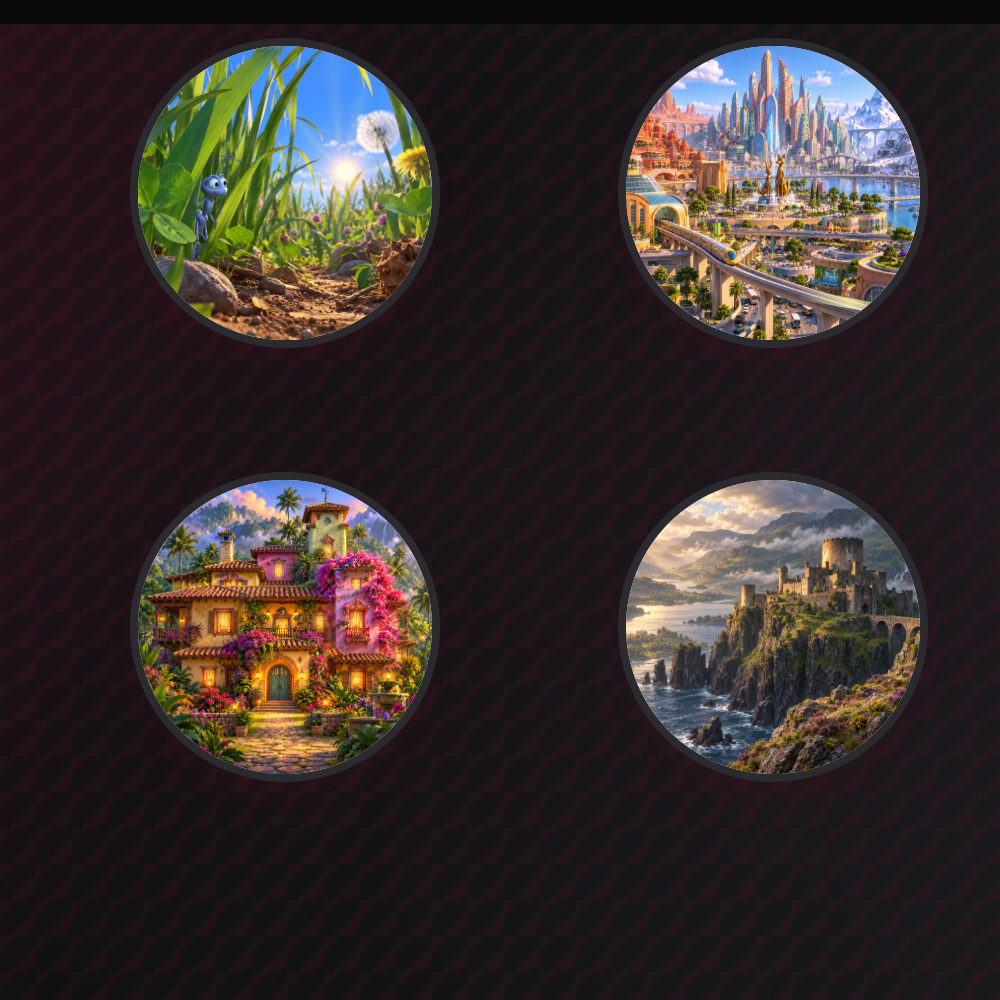
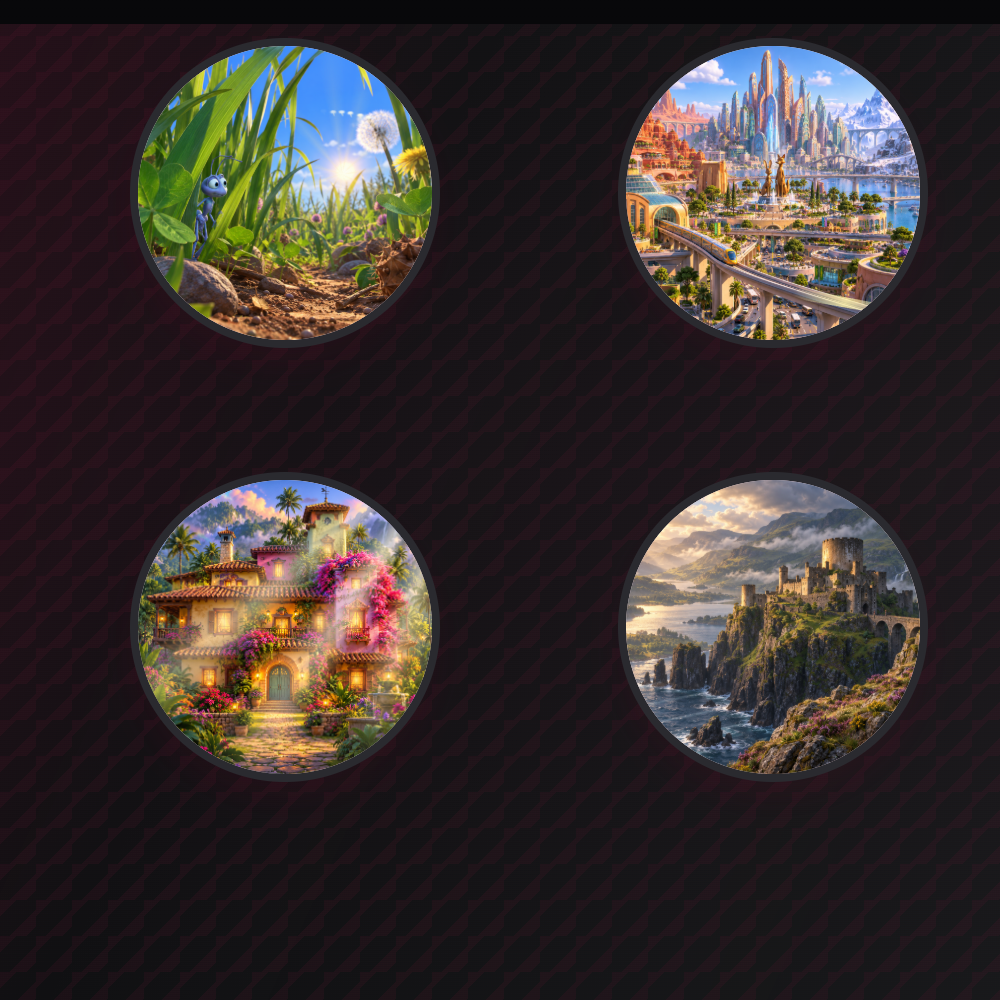
Replace Classic Buzz with Radio Shadow as Punk 90s till Now

Changed region(s): [[0.124, 0.496, 0.434, 0.744]]

diff --git a/scene-motion-tuning.css b/scene-motion-tuning.css
@@ -1,19 +1,19 @@
 /* Scene-specific motion overlays. Original scene images and frame sizing stay fixed. */
 /* Tiny seeds depart the distant dandelion once, fading before foreground grass. */
 .scene-disney-insect-meadow .launch-scene-particles { clip-path:polygon(58% 12%,84% 12%,84% 37%,58% 37%); }
-.scene-disney-insect-meadow .launch-scene-particles i { left:78%; top:28%; width:2px; height:2px; background:radial-gradient(ellipse at 50% 30%,#fffdebd9,transparent 72%); border-radius:50%; box-shadow:none; animation:meadow-background-seed 12s linear infinite; animation-delay:calc(var(--n) * -3s); }
-.scene-disney-insect-meadow .launch-scene-particles i::after { content:""; position:absolute; left:50%; top:1px; width:.5px; height:1.5px; background:#fff8d980; transform:rotate(-20deg); }
-.scene-disney-insect-meadow .launch-scene-particles i:nth-child(n+5) { display:none; }
-@keyframes meadow-background-seed { 0% { left:78%; top:calc(28% + var(--n) * 1%); opacity:0; } 15% { opacity:.45; } 75% { opacity:.3; } 100% { left:61%; top:calc(18% + var(--n) * 1.5%); opacity:0; } }
+.scene-disney-insect-meadow .launch-scene-particles i { left:78%; top:28%; width:6px; height:3px; background:radial-gradient(ellipse at 50% 35%,#fffef2 35%,#fffdebb3 60%,transparent 80%); border-radius:50%; box-shadow:0 0 1px #fff9; animation:meadow-background-seed 12s linear infinite; animation-delay:calc(var(--n) * -2s); }
+.scene-disney-insect-meadow .launch-scene-particles i::after { content:""; position:absolute; left:50%; top:2px; width:1px; height:3px; background:#fff8d9cc; transform:rotate(-20deg); }
+.scene-disney-insect-meadow .launch-scene-particles i:nth-child(n+7) { display:none; }
+@keyframes meadow-background-seed { 0% { left:78%; top:calc(27% + var(--n) * .8%); opacity:0; } 12% { opacity:.95; } 78% { opacity:.8; } 100% { left:61%; top:calc(17% + var(--n) * 1.3%); opacity:0; } }
 
 /* No floating fountain motes, butterflies or wisps in these scenes. */
 :is(.scene-disney-zootopia,.scene-disney-casita,.scene-disney-highland-castle) .launch-scene-particles { display:none; }
 
 /* Casita's warm light stays anchored to the painted window openings. */
 .scene-disney-casita .disney-light { background:radial-gradient(ellipse 3.5% 5% at 30% 48%,#fff0af,#ffca6399 40%,transparent),radial-gradient(ellipse 3% 3% at 49% 49%,#fff0af,#ffca6399 40%,transparent),radial-gradient(ellipse 3% 4% at 61% 48%,#fff0af,#ffca6399 40%,transparent),radial-gradient(ellipse 3.5% 5% at 73% 48%,#fff0af,#ffca6399 40%,transparent),radial-gradient(ellipse 2.5% 4% at 25.5% 66%,#fff0af,#ffca6399 40%,transparent),radial-gradient(ellipse 3% 4% at 73% 67%,#fff0af,#ffca6399 40%,transparent),radial-gradient(ellipse 2.5% 3.5% at 48% 31.5%,#fff0af,#ffca6399 40%,transparent),radial-gradient(ellipse 2% 3% at 64% 25%,#fff0af,#ffca6399 40%,transparent),radial-gradient(ellipse 2% 2.5% at 73% 36%,#fff0af,#ffca6399 40%,transparent); mix-blend-mode:screen; animation:casita-window-warmth 4s ease-in-out infinite alternate; }
-.scene-disney-casita .disney-detail { background:conic-gradient(from 190deg at 110% -18%,transparent 0deg,#ffe6a84d 8deg,transparent 14deg,transparent 20deg,#fff1c759 24deg,transparent 30deg,transparent 37deg,#ffedbd40 40deg,transparent 47deg); mask-image:linear-gradient(#0009,#000 25%,transparent 85%); mix-blend-mode:screen; animation:casita-offscreen-rays 8s ease-in-out infinite alternate; }
+.scene-disney-casita .disney-detail { background:conic-gradient(from 190deg at 110% -18%,transparent 0deg,#ffe6a8b3 7deg,#fff4d1cc 9deg,transparent 15deg,transparent 19deg,#fff1c7cc 23deg,#fff6d9dd 25deg,transparent 31deg,transparent 35deg,#ffedbda6 39deg,#fff4d1bf 41deg,transparent 47deg); mask-image:linear-gradient(#000 0%,#000 48%,#0009 72%,transparent 98%); mix-blend-mode:screen; transform-origin:110% -18%; animation:casita-offscreen-rays 8s ease-in-out infinite alternate; }
 @keyframes casita-window-warmth { from { opacity:.45; } to { opacity:1; } }
-@keyframes casita-offscreen-rays { from { opacity:.3; } to { opacity:.7; } }
+@keyframes casita-offscreen-rays { from { opacity:.65; rotate:-2deg; } to { opacity:1; rotate:2deg; } }
 
 /* Water-only Highland motion: fixed shoreline masks keep rocks and castle still. */
 .scene-disney-highland-castle .disney-detail { background:repeating-linear-gradient(176deg,transparent 0 5px,#eaf7ff66 6px,transparent 7px 12px); clip-path:polygon(7% 44%,38% 43%,36% 47%,25% 49%,36% 50%,33% 54%,24% 53%,15% 50%,8% 51%,2% 49%,11% 47%); mix-blend-mode:screen; animation:highland-lake-ripples 6s linear infinite; }

diff --git a/colt-radio.js b/colt-radio.js
@@ -3,13 +3,14 @@
 
   const stations = [
     {
+      // Keep the saved station ID so existing favorites receive the replacement.
       id: "181-classic-buzz",
-      label: "Punk Rock • 181.FM Classic Buzz",
+      label: "Punk 90s till Now",
       type: "stream",
-      source: "https://listen.181fm.com/181-classicbuzz_128k.mp3",
-      provider: "181.FM Classic Buzz (Alternative)",
-      searchTerms: "punk rock pop punk classic alternative green day greenday offspring blink 182 english",
-      note: "English-language classic alternative from 181.FM, grouped under Punk Rock. The station also plays other alternative rock; clean-only songs and ad-free playback are not confirmed."
+      source: "https://securestreams7.autopo.st/?uri=http://162.244.80.131:8052/stream",
+      provider: "Radio Shadow Rock Mix",
+      searchTerms: "punk rock pop punk classic alternative 90s nineties till now radio shadow rock mix english",
+      note: "Radio Shadow Rock Mix plays rock and alternative from the ’90s to today and advertises commercial-free listening. Not exclusively punk; clean-only programming is not confirmed."
     },
     {
       id: "brazilian-phonk",

diff --git a/index.html b/index.html
@@ -18,7 +18,7 @@
   <link rel="stylesheet" href="disney-oct6-scenes.css?v=20261007-carnival-palace">
 <link rel="stylesheet" href="scene-exterior-frames.css?v=20261007-v5-frame-overlay">
   <link rel="stylesheet" href="minibike-track.css?v=20261008-brighter-sun-v2">
-  <link rel="stylesheet" href="scene-motion-tuning.css?v=20261010-disney-motion-v2">
+  <link rel="stylesheet" href="scene-motion-tuning.css?v=20261010-disney-motion-v3">
   <link rel="stylesheet" href="audubon-zoo.css?v=20261009-v1">
   <link rel="stylesheet" href="collectible-shelf.css?v=20261010-audubon-zoo-v46">
 </head>
@@ -34,7 +34,7 @@
 <script src="collectible-shelf.js?v=20261010-dog-statues-v114"></script>
   <script src="app.js?v=20261005-fire-frames-v103"></script>
   <script src="colt-assistant.js?v=20261003-floating-v3"></script>
-  <script src="colt-radio.js?v=20261010-classic-buzz-v36"></script>
+  <script src="colt-radio.js?v=20261010-radio-shadow-v37"></script>
   <script src="launchpad-colt.js?v=20260908-bathing-panel-v9"></script>
 </body>
 </html>
